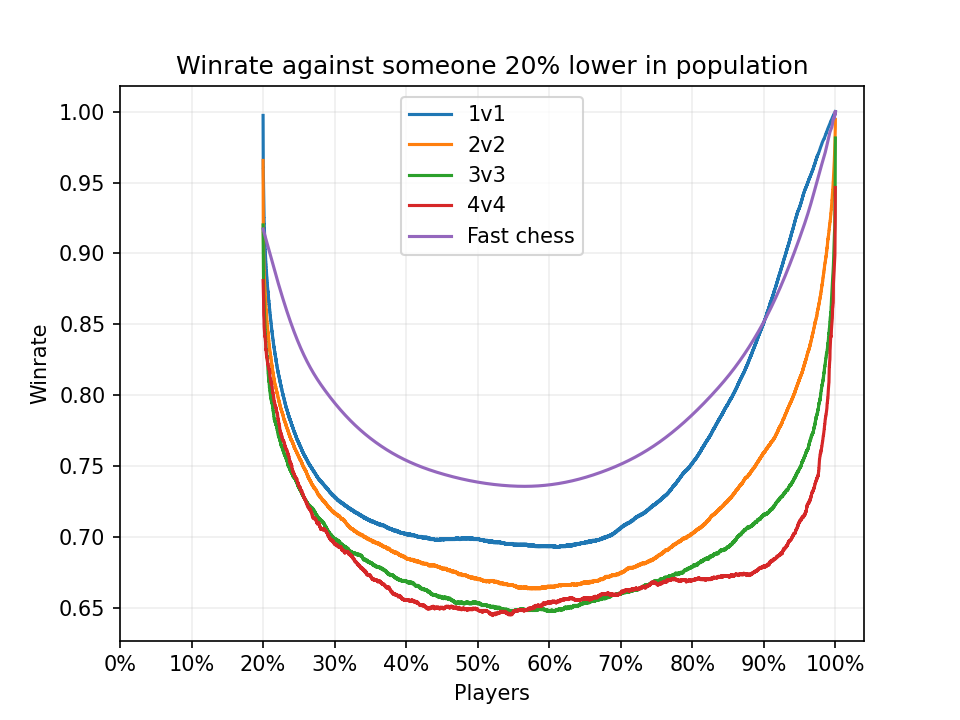
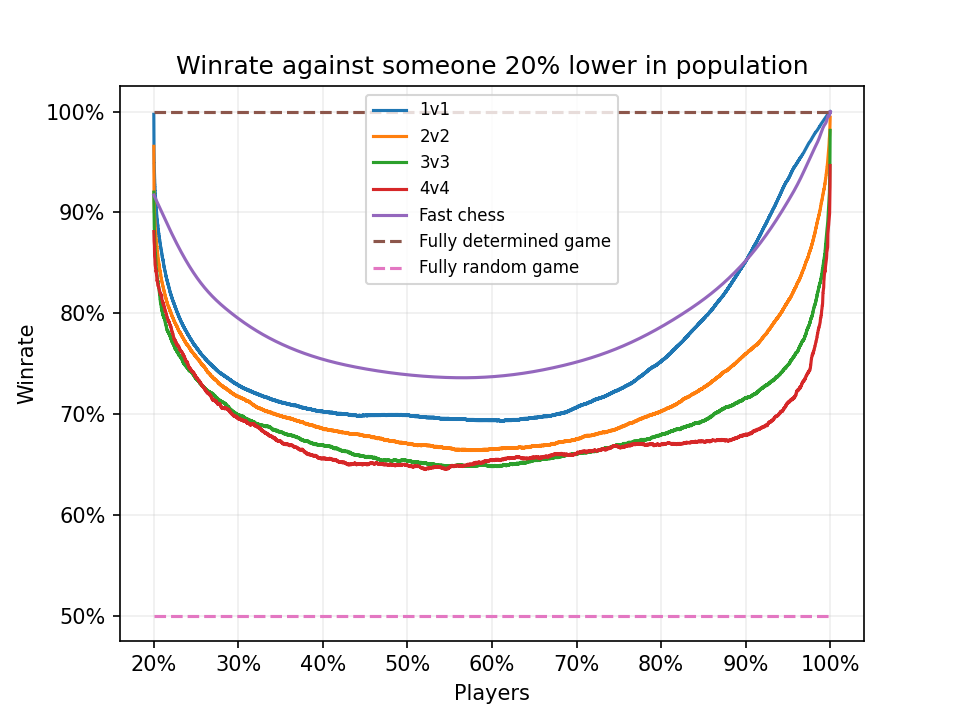
update

diff --git a/mmr.py b/mmr.py
@@ -217,20 +217,25 @@ def plot_winrate():
 
     plt.plot(positions, winrates, label='Fast chess')
 
+    plt.plot([M*offset_percent,M],[1,1], label='Fully determined game', linestyle='dashed')
+    plt.plot([M*offset_percent,M],[0.5,0.5], label='Fully random game', linestyle='dashed')
+
     # Change xticks to percents
     percents = []
     percents_loc = []
-    for percent in range(0, 101, 10):
+    for percent in range(int(offset_percent*100), 101, 10):
         percents.append(f"{percent}%")
         percents_loc.append(int(M * percent / 100))
 
     plt.xticks(percents_loc, percents)
+    plt.yticks([i/10 for i in range(5,11)],[f"{i*10}%" for i in range(5,11)])
+    
     plt.title(
         f"Winrate against someone {offset_percent:.0%} lower in population")
     plt.xlabel("Players")
     plt.ylabel(f"Winrate")
     plt.grid(alpha=0.2)
-    plt.legend(loc='upper center')
+    plt.legend(fontsize=8)
     plt.savefig("Winrate.png")
 
 

diff --git a/README.md b/README.md
@@ -12,7 +12,7 @@ Silver, Gold and Platinum leagues are nicely tugged together but still spanning 
 
 ![Screenshot](./MMR_dist_region_compare.png)
 
-When comparing different regions, we can see that KR is more shifted towards higher MMRs. That's likely because of a lot more professional players and fewer total players. MMR will shift toward higher ranges to accommodate a different player distribution.
+After quickly comparing different regions, we can see that KR is more shifted towards higher MMRs. That's likely because of a lot more professional players and fewer total players. MMR will shift toward higher ranges to accommodate a different player distribution.
 
 ![Screenshot](./MMR_dist_1v1.png)
 
@@ -32,13 +32,15 @@ Fast chess population spans essentially the same MMR range as 1v1 in StarCraf II
 |2v2 | 1154 – 5301 |
 |3v3 | 1571 – 4809 |
 |4v4 | 1872 – 4494 |
-| Fast chess | – 7260 |
+| Fast chess | 220 – 7260 |
 
 
 I'm guessing team games in StarCraft II are missing data from low MMR replays, 1v1 mode does have those.
 
 ![Screenshot](./Winrate.png) 
 
-An alternative visualization of the previous data but with winrates calculated based on the [difference in ELO](https://en.wikipedia.org/wiki/Elo_rating_system#Mathematical_details). The winrate based on an MMR difference was calculated the same way as ELO, but with `ΔELO = ΔMMR/2.2` conversion.
+An alternative visualization of the previous data but with winrates calculated based on the [difference in ELO](https://en.wikipedia.org/wiki/Elo_rating_system#Mathematical_details). The winrate based on an MMR difference was calculated the same way as ELO, but with `ΔELO = ΔMMR/2.2` conversion. 260 MMR difference results in 66% winrate, 420 difference in 75%, and 1120 difference in 95%.
 
-This chart shows the previous trend even better. From the highest skill differences in player population to the lowest: Fast chess > 1v1 > 2v2 > 3v3 > 4v4.
+This chart shows the previous trend even better. From the highest skill differences in player population to the lowest: Fast chess > 1v1 > 2v2 > 3v3 > 4v4. 
+
+I added how a fully random and fully determined game would look like. A fully random game might be a game of *rock-paper-scissors* (if played well), and a fully determined game could be comparing persons heights (assuming a single precise measurement). Normal games fall somewhere in-between due to [various sources of randomness](https://www.maguro.one/2021/06/TR09-gameplay-variety.html#sources) (execution, built-in, etc.) (pushes down) and player's skill (pushes up). The higher the game is in this chart, the most accurately it tells a player skill and/or there is a wider skill difference in its population – since we are comparing against players x% lower in population. Using a fixed value (e.g. 1000 players down) would have a similar dependency on the population.
